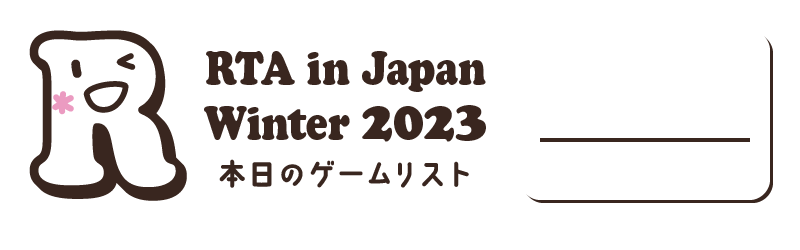
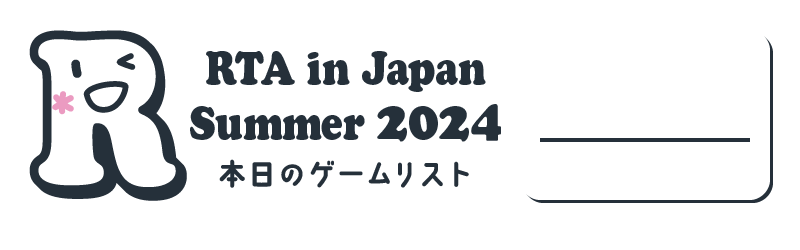
s2024背景

Changed region(s): [[0.0312, 0.112, 0.625, 0.812], [0.25, 0.196, 0.625, 0.364], [0.6562, 0.196, 0.9688, 0.812]]

diff --git a/script.js b/script.js
@@ -3,7 +3,7 @@ const HORARO_USER = "rtaij";
 /** 1ページに表示するゲーム数の上限 */
 let LIST_PAGENATION_NUM = 11;
 /** eventId未指定時のリダイレクト */
-const REDIRECT_QUERY = "?eventId=rtaijw2023";
+const REDIRECT_QUERY = "?eventId=rtaijs2024";
 
 const loadImage = (src) => {
   return new Promise((resolve, reject) => {
@@ -266,14 +266,16 @@ const draw = async () => {
   canvas.height = height;
   const ctx = canvas.getContext("2d");
 
+  const now = new Date().getTime();
+
   // canvasの背景
-  const backgroundImg = await loadImage("./img/gamelist_background.png");
+  const backgroundImg = await loadImage("./img/gamelist_background.png?" + now);
   const pattern = ctx.createPattern(backgroundImg, 'repeat');
   ctx.fillStyle = pattern;
   ctx.fillRect(0, 0, WIDTH, height);
 
   // ヘッダー
-  const hedaerImage = await loadImage("./img/gamelist_head.png");
+  const hedaerImage = await loadImage("./img/gamelist_head.png?" + now);
   ctx.drawImage(hedaerImage, 0, 0);
 
   // 日付表示
